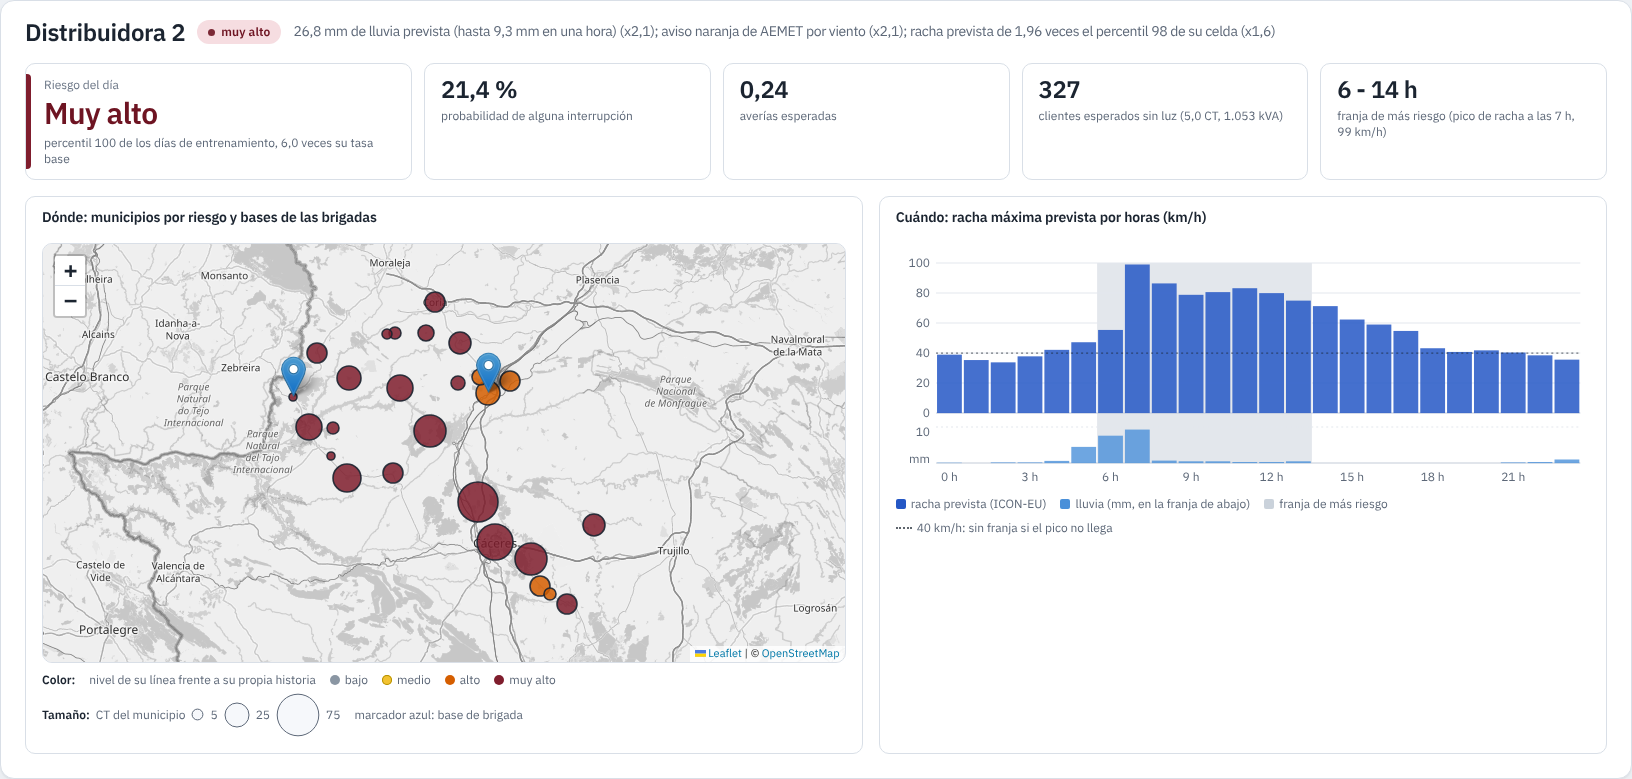
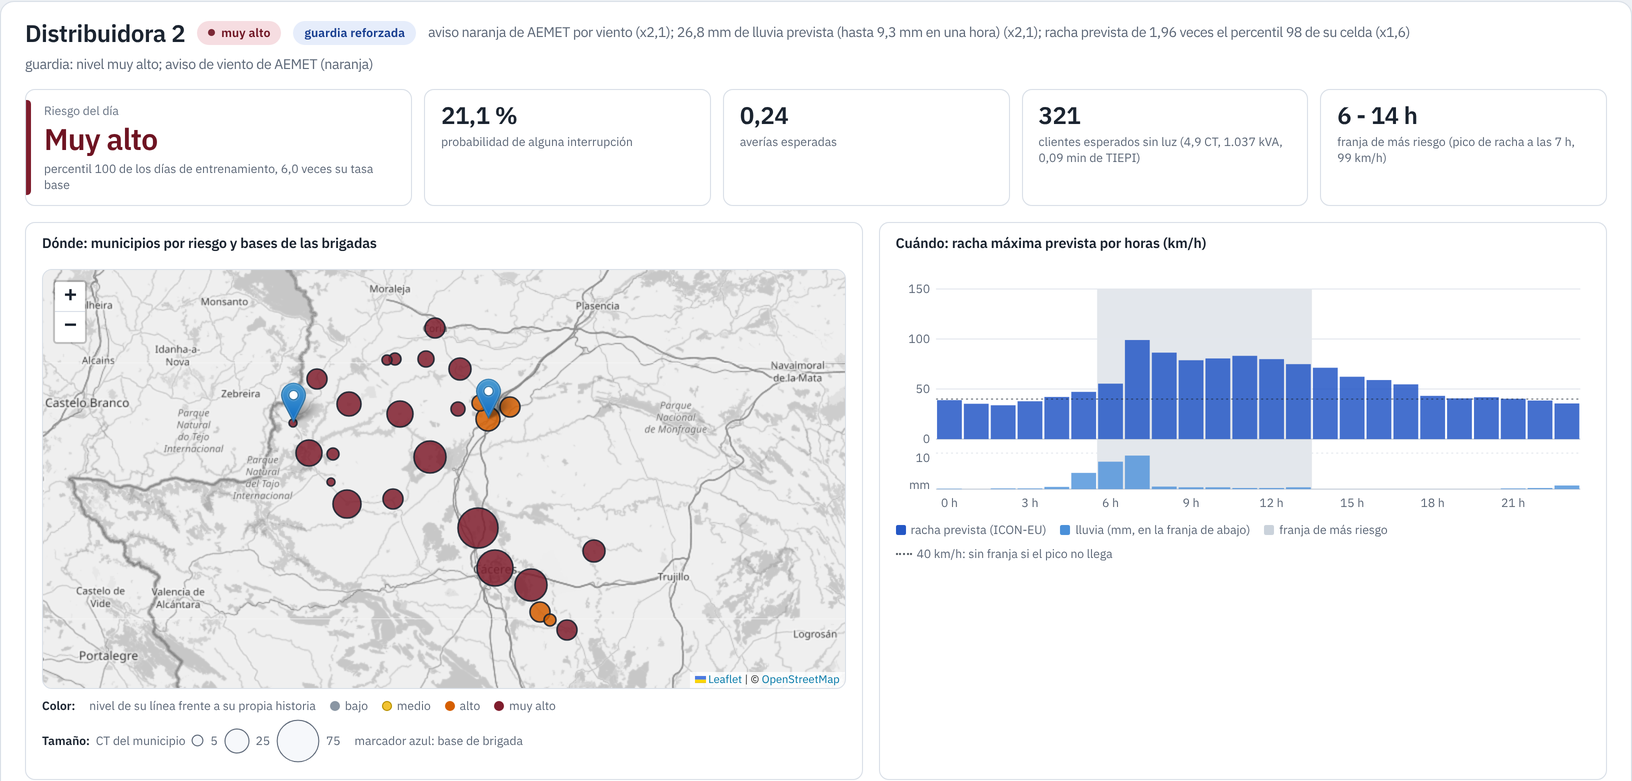
PÁGINA PÚBLICA: la tarde del 27.01 con el 21,1 % de la demo
La captura de la página pública daba el 21,4 % de la versión anterior de la
demo. La nueva sale de la copia con seudónimos, con la guardia reforzada y
el 21,1 % que da la demo y la memoria v11.

diff --git a/web/index.html b/web/index.html
@@ -97,7 +97,7 @@
   </div>
   <article class="tarjeta ancha" data-reveal><h3>La logística del día siguiente se decide la víspera</h3><p>Saber a las 20:30 que mañana es un día de riesgo alto, en qué franja y en qué zona cambia lo que se prepara esa misma tarde: quién está de guardia y cuántos, desde qué base salen las brigadas en una red extensa, qué material y qué vehículos llevan, qué repuestos conviene tener a mano o pedir, y si hace falta reforzar con gente de fuera o con otra brigada. Sin aviso, el día malo pilla con una sola brigada en el extremo equivocado de la red y sin el material adecuado; con él, la distribuidora planifica personas, bases, compras y refuerzos con un día de margen.</p></article>
   <figure class="captura" data-reveal>
-    <img src="img/riesgo_tormenta.png" width="1632" height="778" alt="Cuadro de mando de GridPredic la tarde del 27.01.2026, Distribuidora 2: riesgo muy alto, 21,4&nbsp;% de probabilidad, franja de 6 a 14&nbsp;h, mapa de municipios por riesgo con las bases de las brigadas y racha prevista por horas" loading="lazy">
+    <img src="img/riesgo_tormenta.png" width="1632" height="781" alt="Cuadro de mando de GridPredic la tarde del 27.01.2026, Distribuidora 2: riesgo muy alto, 21,1&nbsp;% de probabilidad, franja de 6 a 14&nbsp;h, mapa de municipios por riesgo con las bases de las brigadas y racha prevista por horas" loading="lazy">
     <figcaption>La tarde del 27.01.2026 vista por el sistema con la previsión y los avisos que había entonces: muy alto en las tres redes para el día del temporal. En la imagen, la Distribuidora&nbsp;2, con la franja de 6 a 14&nbsp;h y los municipios por riesgo. <a href="demo/index.html?dia=20260128">Esa tarde, tal cual, en la demo</a>.</figcaption>
   </figure>
 </section>
